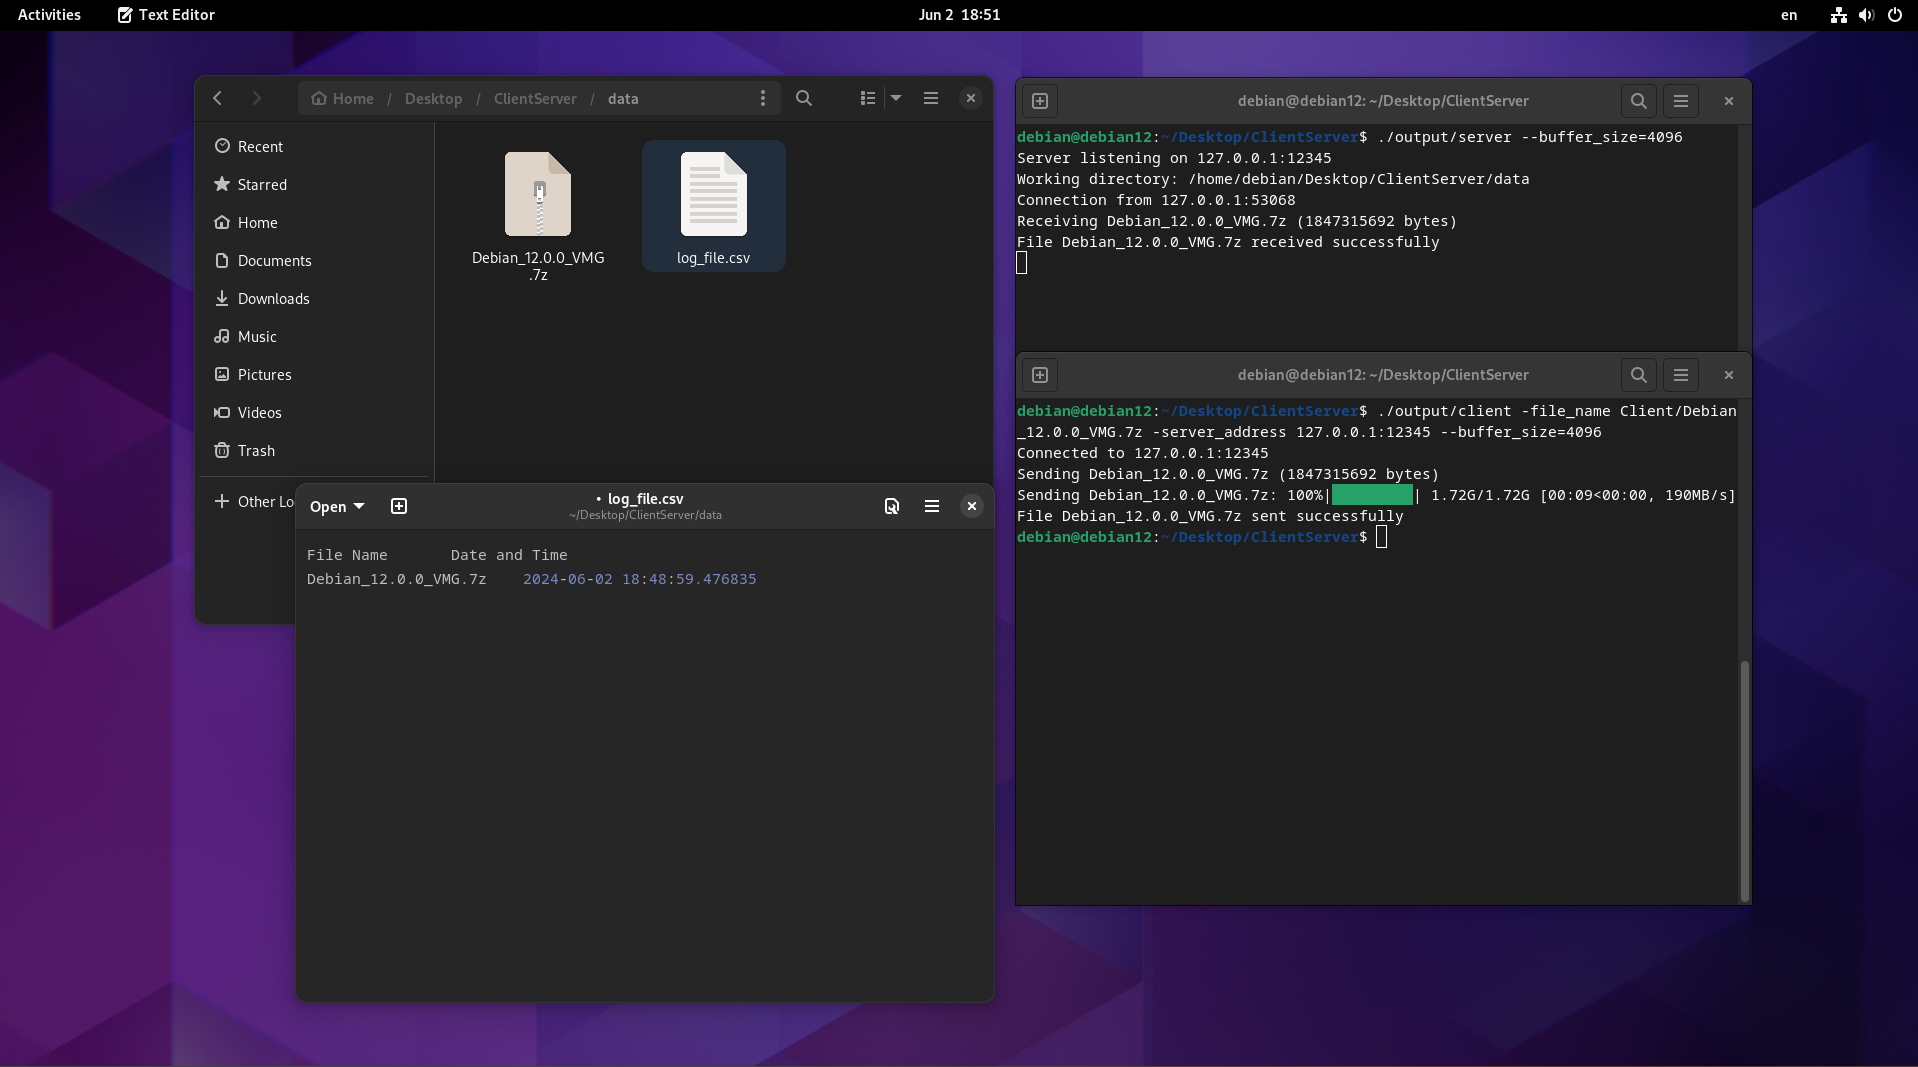
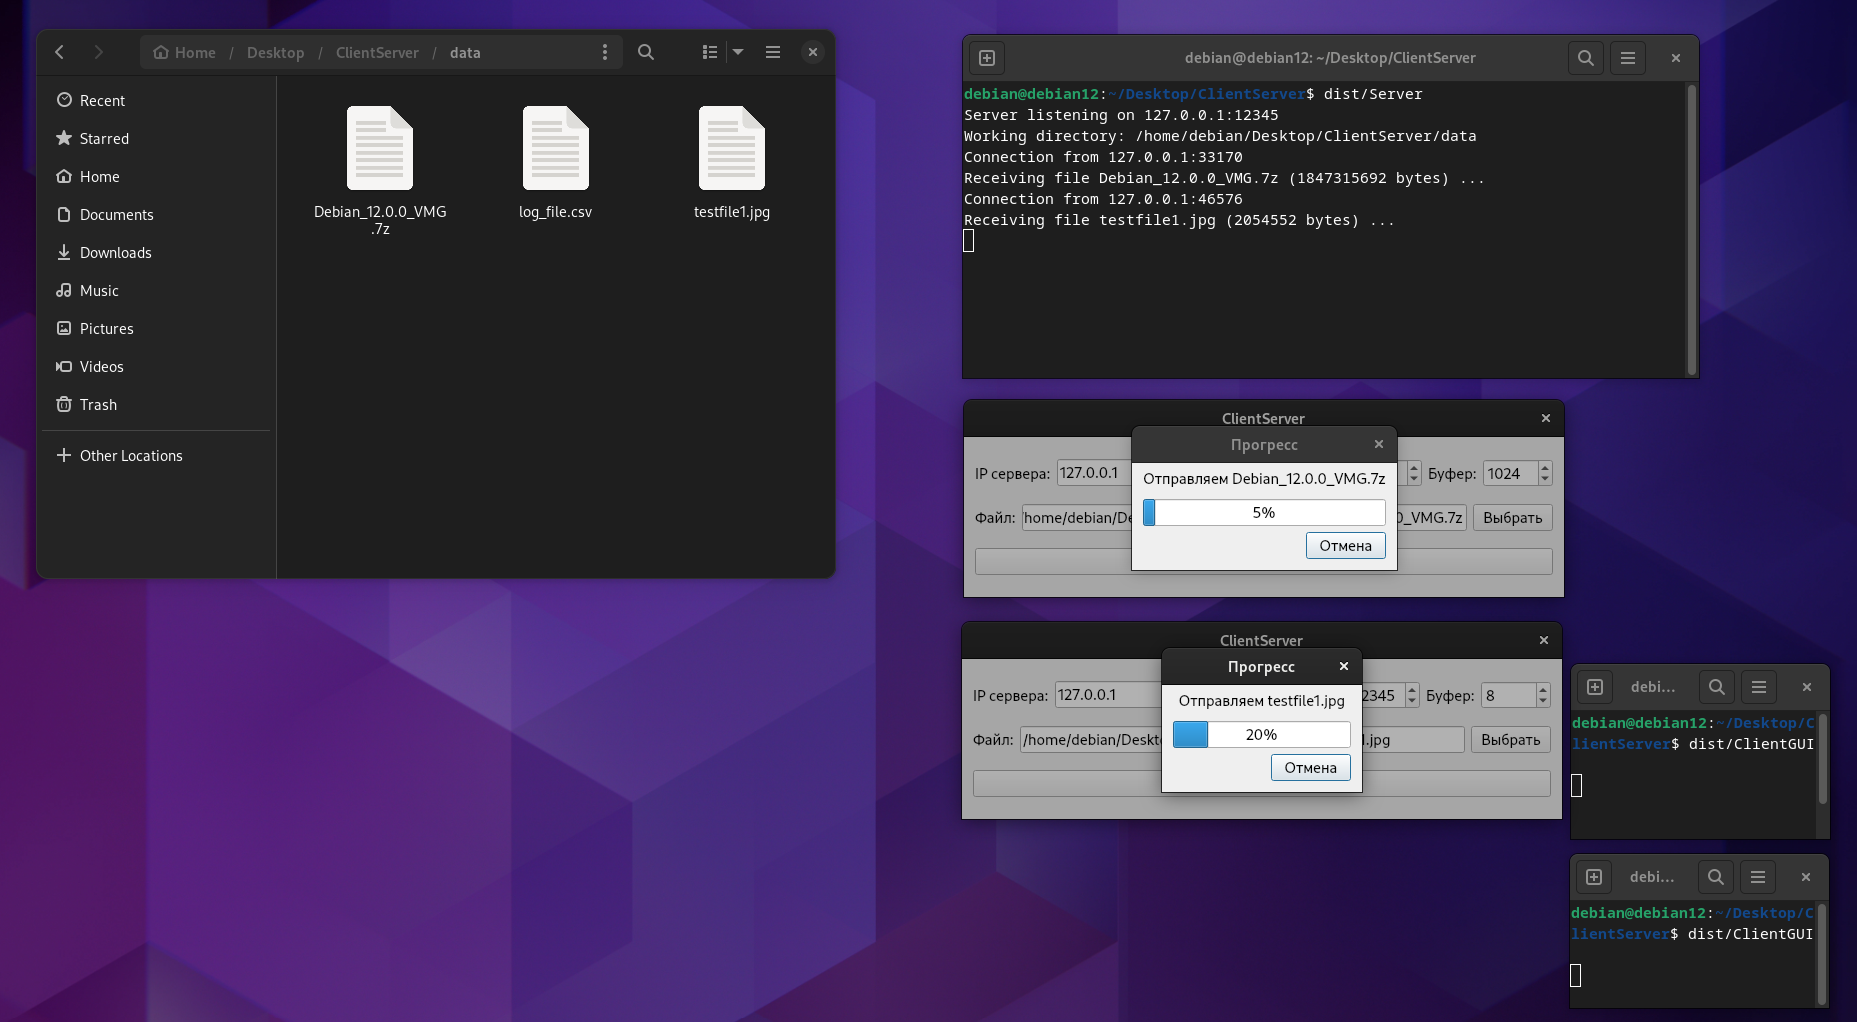
доработка напильником

diff --git a/src/Server.py b/src/Server.py
@@ -147,6 +147,7 @@ def main(directory="data", server_IP="127.0.0.1", server_PORT=12345):
             epoll.unregister(server_socket)
             epoll.close()
             for i in files:
+                os.remove(files[i].name)
                 files[i].close()
             server_socket.close()
             exit(0)
@@ -231,15 +232,13 @@ def main(directory="data", server_IP="127.0.0.1", server_PORT=12345):
                                             f"Connection from {client_address[0]}:{client_address[1]} closed with"
                                             f" error")
 
-                                    if client_socket in files:
-                                        files[client_socket].close()
-                                        if message_types[client_socket] != MessageType.END.value:
-                                            os.remove(files[client_socket].name)
                                     file_names.remove(files[client_socket].name)
-                                    del files[client_socket]
+                                    files[client_socket].close()
+                                    if message_types[client_socket] != MessageType.END.value:
+                                        os.remove(files[client_socket].name)
                                     epoll.unregister(client_socket)
-                                    if client_socket in fd_to_socket:
-                                        del fd_to_socket[client_socket]
+                                    del files[client_socket]
+                                    del fd_to_socket[fd]
                                     del addresses[client_socket]
                                     client_socket.close()
 

diff --git a/src/ClientGUI.py b/src/ClientGUI.py
@@ -47,7 +47,7 @@ class ClientForm(QWidget):
         self.buffer_label = QLabel('Буфер:')
         self.buffer_spinbox = QSpinBox(self)
         self.buffer_spinbox.setFixedWidth(70)
-        self.buffer_spinbox.setRange(1, 65535)
+        self.buffer_spinbox.setRange(1, 32768)
         self.buffer_spinbox.setValue(1024)
         server_IP_and_port_layout.addWidget(self.server_IP_label)
         server_IP_and_port_layout.addWidget(self.server_IP_textbox)
@@ -150,7 +150,7 @@ class ClientForm(QWidget):
             self.progress_dialog.close()
             self.__show_message(QMessageBox.Critical, "Ошибка", "Файл уже отправляется от другого клиента")
             return
-        except ConnectionFailedError:
+        except ConnectionError:
             self.progress_dialog.close()
             self.__show_message(QMessageBox.Critical, "Ошибка", "Сервер недоступен")
             return

diff --git a/README.md b/README.md
@@ -15,16 +15,17 @@
 - [x] Этап 1:
     - Реализовать требования к клиент-серверной части приложения.
     - Реализовать упаковку клиентской и серверной частей приложения в виде бинарных файлов.
-- [ ] Этап 2:
+- [x] Этап 2:
     - Реализовать графический интерфейс для Клиента. При помощи графического интерфейса Клиент должен иметь возможность выбрать для передачи Серверу произвольный файл. Консольный интерфейс должен быть сохранен. Рекомендуемая библиотека для реализации графического интерфейса - PyQT.
 ### Дополнительные задания:
-- [ ] Реализовать для Сервера возможность подключения нескольких Клиентов одновременно с использованием функций poll, epoll, select. Для каждой функции требуется обосновать её применение.
-- [ ] Реализовать обработку ошибок передачи данных между Клиентом и Сервером, например, разрывы сетевого соединения.
+- [x] Реализовать для Сервера возможность подключения нескольких Клиентов одновременно с использованием функций poll, epoll, select. Для каждой функции требуется обосновать её применение.
+- [x] Реализовать обработку ошибок передачи данных между Клиентом и Сервером, например, разрывы сетевого соединения.
 ---
 ### Скриншоты программы в процессе работы:
-- Во время передачи файла
+- Внешний вид пользовательского интерфейса
 ![Изображение](./Screenshots/screen1.png)
-- После передачи файла
+- Передача файлов
 ![Изображение](./Screenshots/screen2.png)
-- После передачи второго файла
 ![Изображение](./Screenshots/screen3.png)
+- Отмена передачи файла
+![Изображение](./Screenshots/screen4.png)
